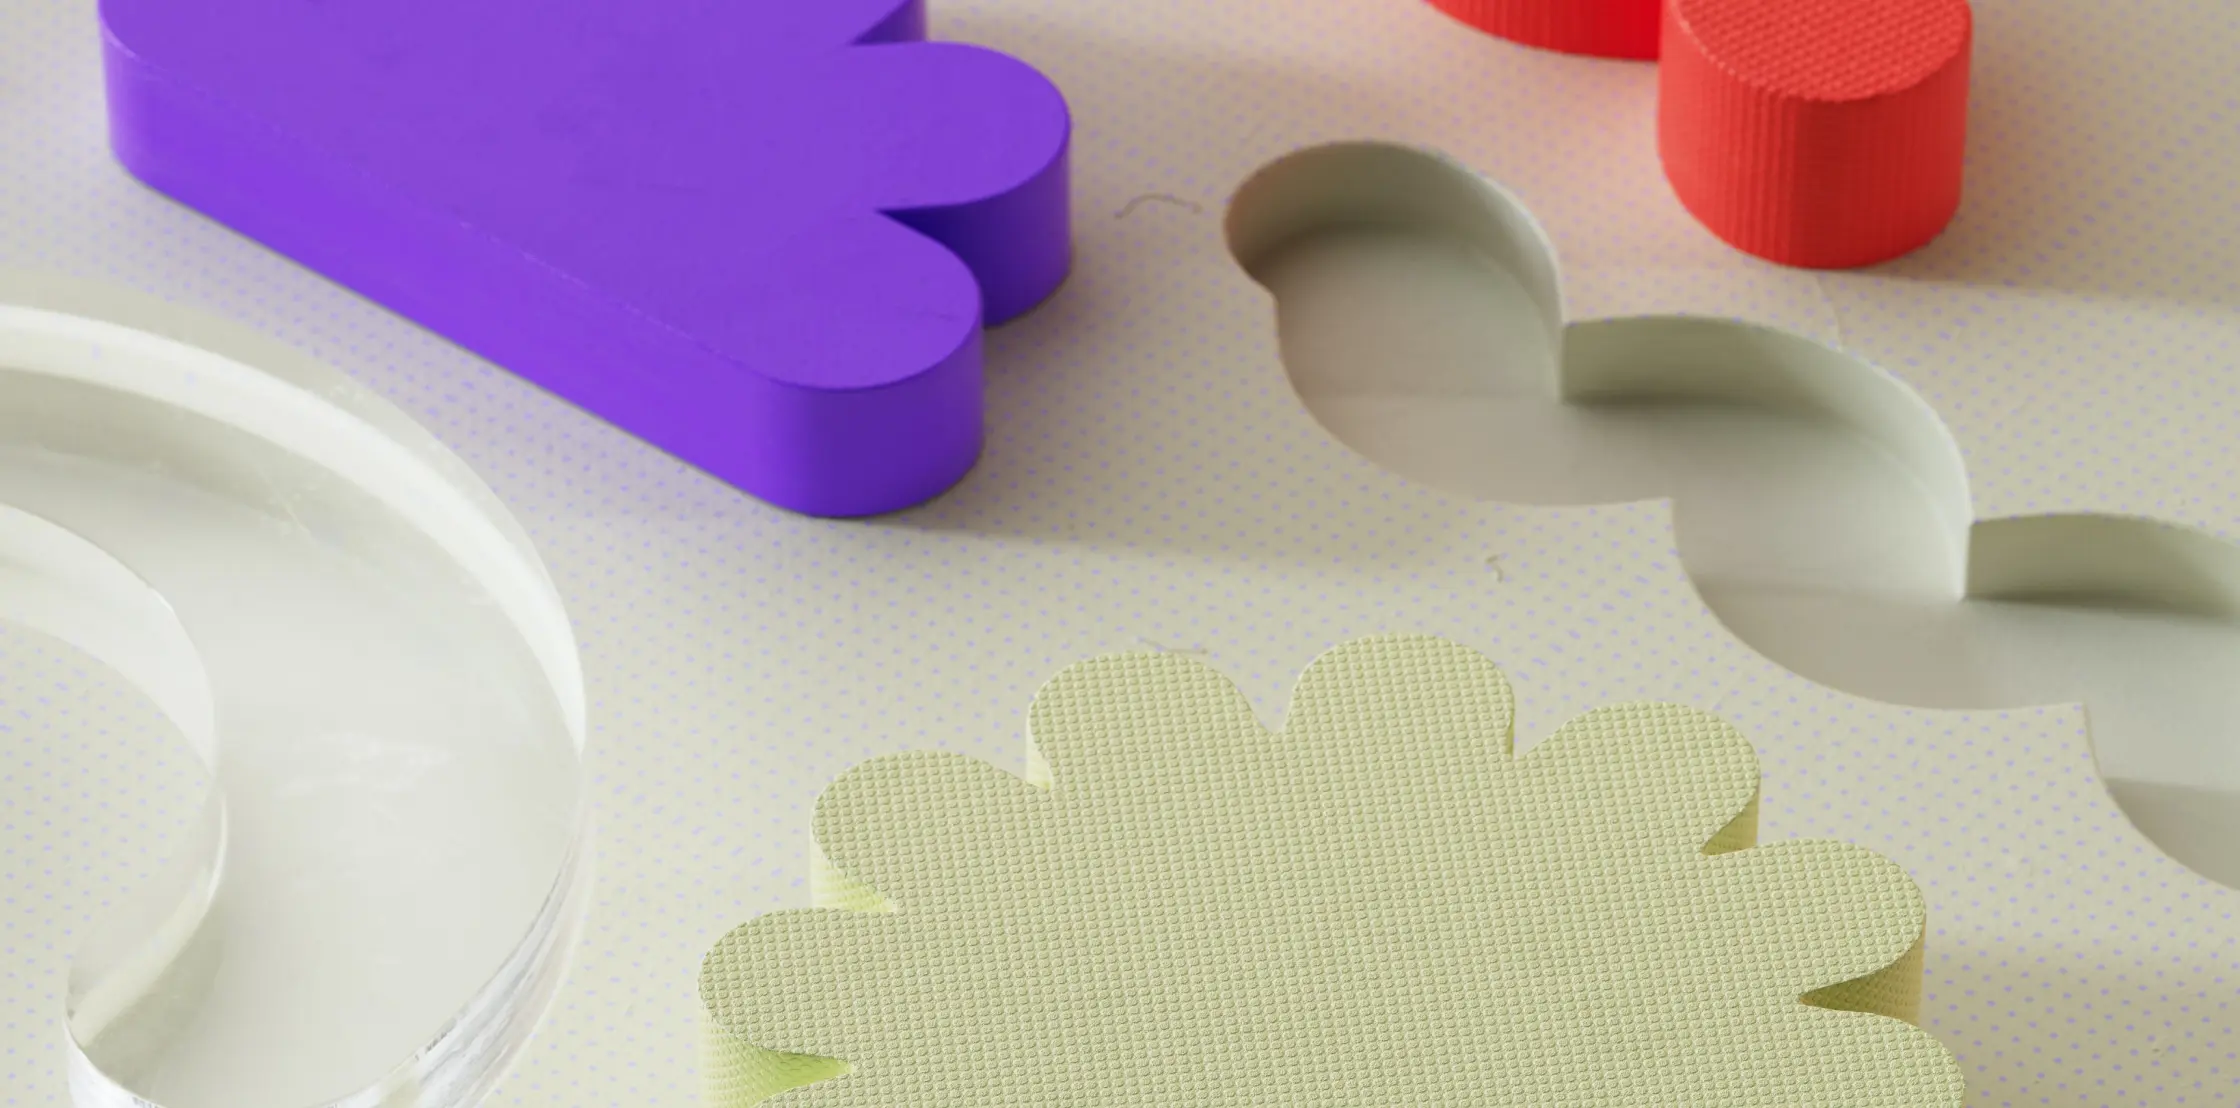
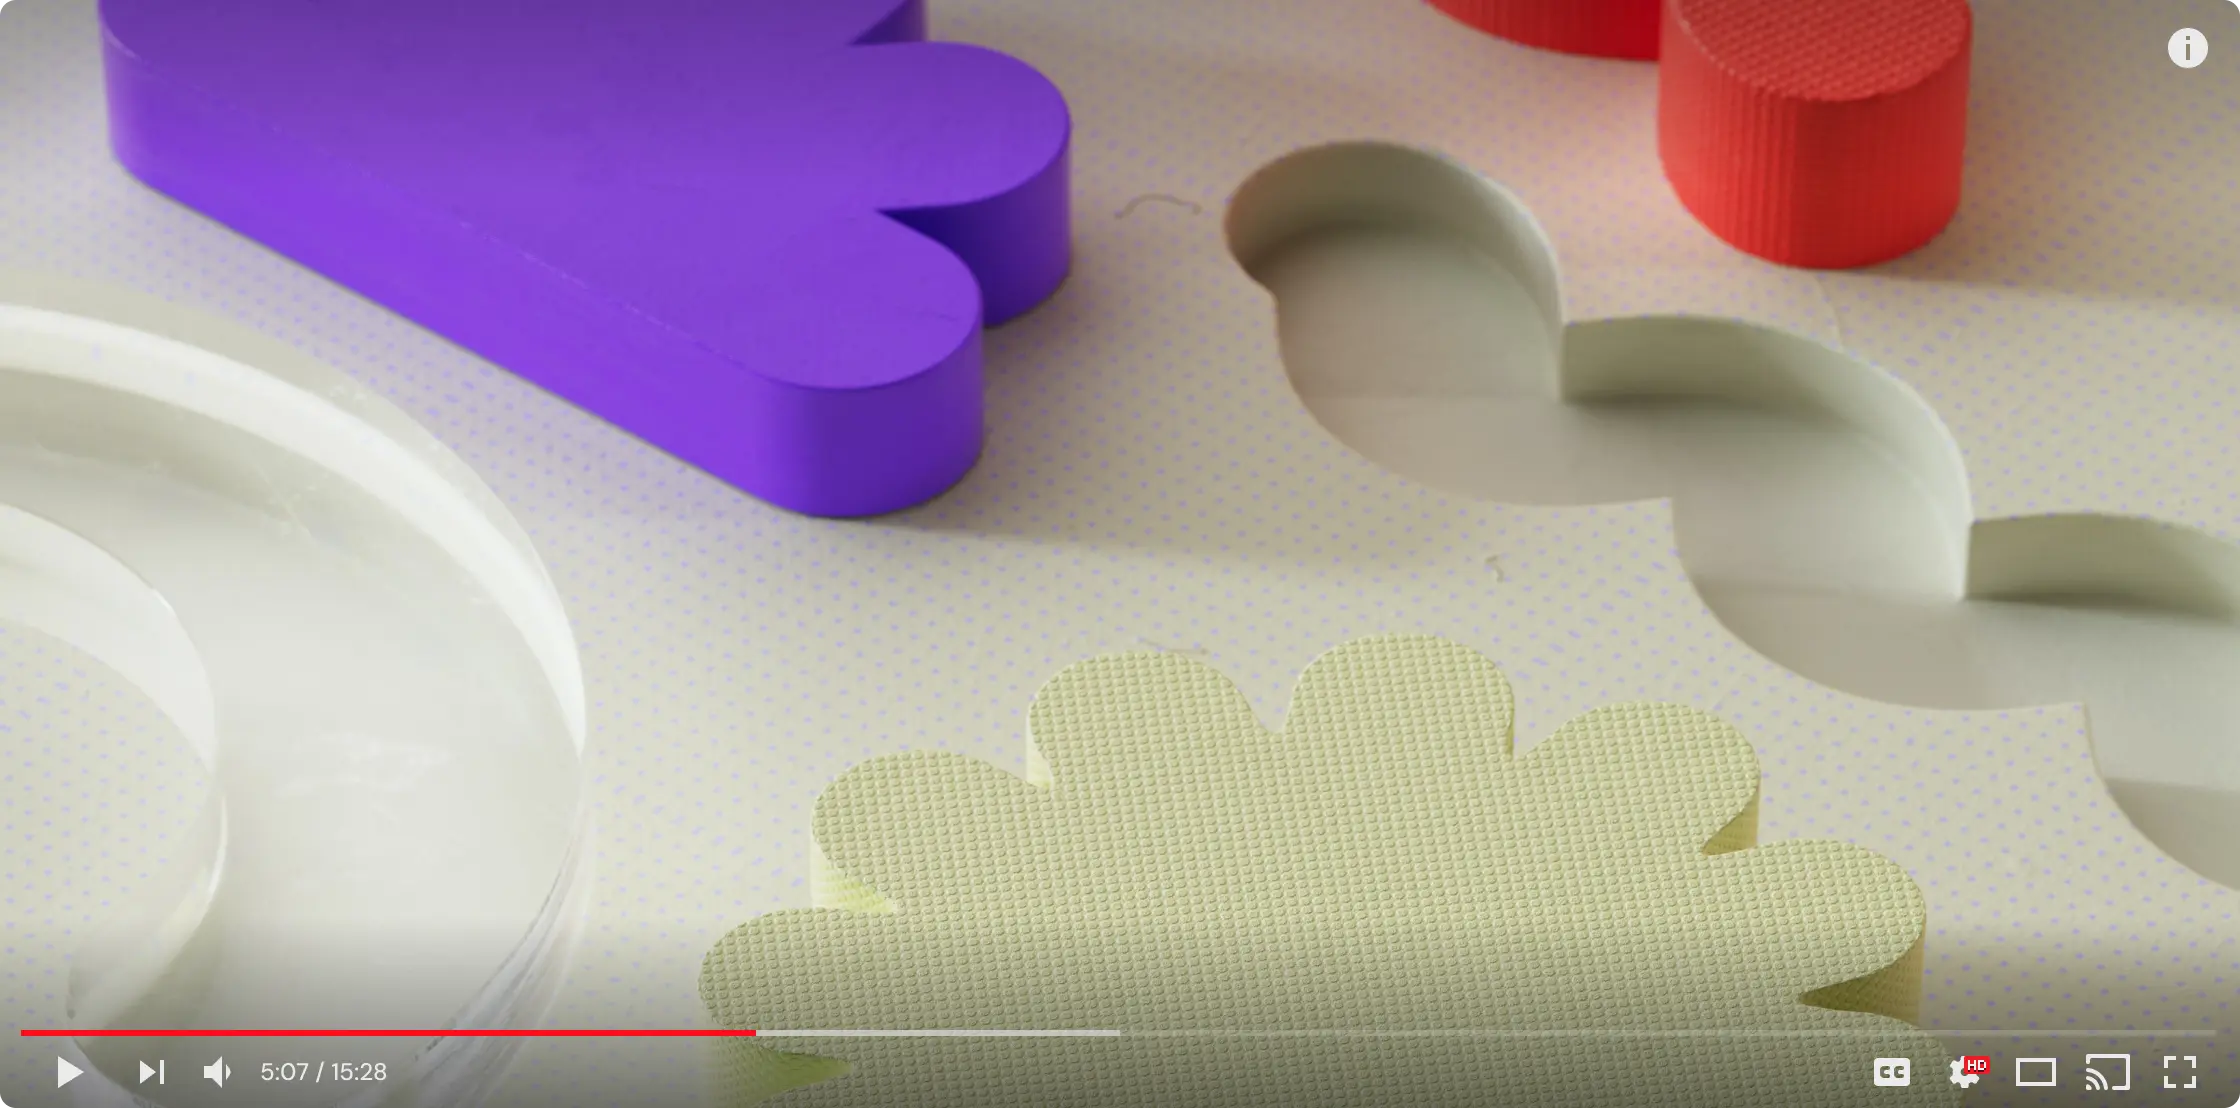
fix: minor change

Changed region(s): [[0.0, 0.8592, 1.0, 1.0], [0.0, 0.0, 1.0, 0.1227]]

diff --git a/index.css b/index.css
@@ -46,7 +46,7 @@ main .cta {
     aspect-ratio: 16 / 9;
     border-radius: 10px;
     background: url('/images/videoplaceholder.webp') no-repeat center;
-    background-size: cover;
+    background-size: 100% 100%;
 }
 
 #heroLogos {
